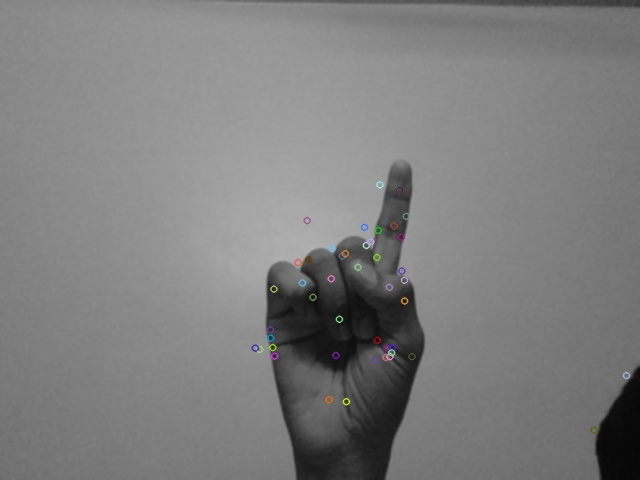
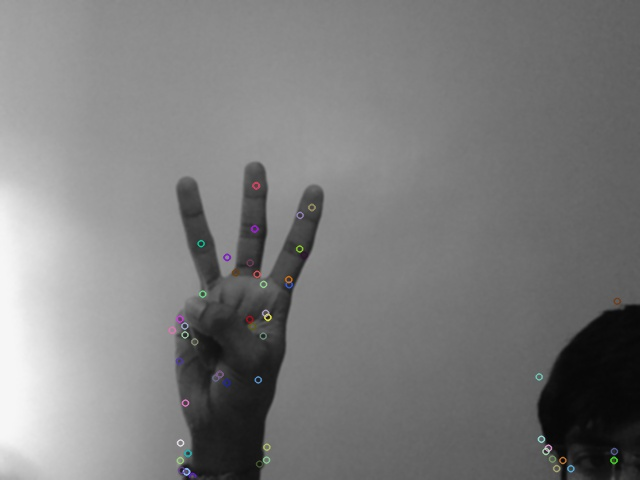
Commit to pull

diff --git a/FeatureDetectionSIFT.py b/FeatureDetectionSIFT.py
@@ -2,7 +2,7 @@
 
 import cv2
 import numpy as np
-img = cv2.imread('training-images/Digits/1/Right_Hand/Normal/2.png')
+img = cv2.imread('training-images/Digits/3/Right_Hand/Normal/2.png')
 gray= cv2.cvtColor(img,cv2.COLOR_BGR2GRAY)
 sift = cv2.xfeatures2d.SIFT_create()
 kp = sift.detect(gray,None)
